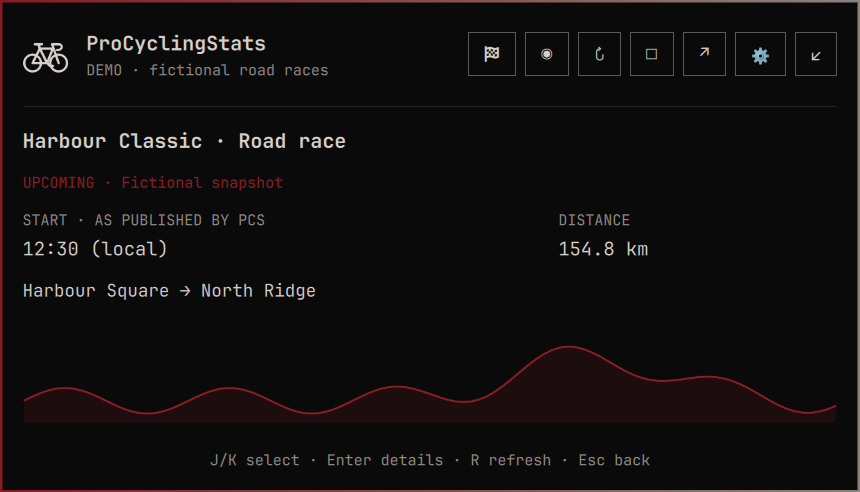
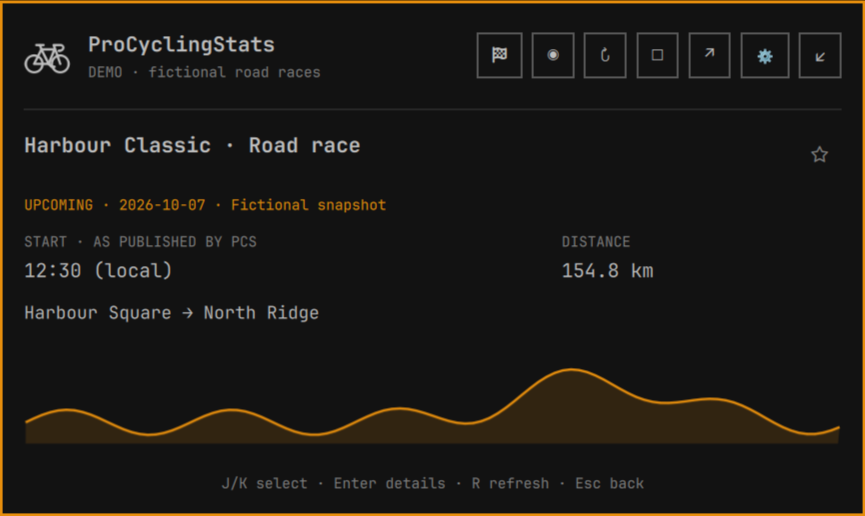
docs: refresh README and showcase the current race dashboard

diff --git a/README.md b/README.md
@@ -1,66 +1,79 @@
 # ProCyclingStats for Omarchy
 
-A compact road-cycling dashboard for the Omarchy Quattro bar. Follow the race
-situation, time gaps and latest events without keeping a browser window open.
+A road-cycling dashboard for the Omarchy Quattro bar. Follow live groups and
+splits, browse race profiles, move between stages, and catch up on results
+without spoiling the race you still want to watch.
 
 **Unofficial integration.** Not affiliated with or endorsed by ProCyclingStats.
-Race coverage depends on the public data PCS makes available.
+Coverage depends on the public data PCS makes available. No account or API key
+is required.
 
-![Live race overview with fictional demo data](preview.png)
+![Live race overview with a pinned race, gap trends, latest events and course profile](preview.png)
+
+*↑ gaining on the front · ↓ losing time. Hover a group to see the change in seconds.*
 
 ## Features
 
-- **Pinned races:** star an edition to keep it first within your current list and
-  filters. Pins include every stage and survive shell restarts and reboots.
-- **Stage navigation:** previous/next arrows beside the race title follow PCS's
-  published stages, opening results, live coverage or the upcoming preview.
-- **Gap trends:** ↑ means gaining on the front; ↓ means losing time since the
-  previous fresh snapshot. No arrow is shown for unchanged, uncertain, stale or
-  incomparable groups, including a changed front group. Hover a group for the
-  change in seconds.
-
-- **Pop-out window:** detach into a regular tiled window and dock back without
-  losing your current view; polling and notifications stay shared.
-- **Yesterday, today and tomorrow:** results, current races and upcoming stages.
-- **Profiles and distance:** published elevation thumbnails and kilometres for
-  past, current and upcoming races; larger profiles in the details view. Profiles
-  and distances survive shell restarts in a seven-day disk cache.
-- **Race calendar:** browse recent results and upcoming races beyond adjacent days.
-  Choose the default list size in Settings (25 races; adjustable from 10 to 100).
-- **One race overview:** distance remaining, race time, average speed, groups and
-  rider splits, latest events, course profile and the next published climb or sprint.
-- **Finished races:** course profile, distance, winner’s time and average speed,
-  alongside final results and the selected stage’s GC with time gaps.
-- **Race events:** attacks, sprints, dropped riders, abandonments and finish updates.
-- **Your races:** 13 independent category checkboxes and a minimum race level.
-  Choose ProSeries+ to hide Class 1 and Class 2 races. All categories and levels
-  are included by default.
-- **Optional notifications:** new events from followed races, with automatic expiry.
-- **Honest connection status:** visible warnings, last-success timestamps and
-  backoff when updates fail or PCS rejects access.
+- **Live race situation:** groups and rider splits, distance remaining, race
+  time, average speed, recent events and the next published climb or sprint.
+  Gap trends compare fresh snapshots of matching groups against the same front.
+- **Persistent pins:** star a race to sort it first within your current list and
+  filters. Pins cover the whole edition, including its stages, and survive reboots.
+- **Stage navigation:** previous/next arrows beside the title open published
+  stages as results, live coverage or an upcoming preview. Your active tab stays selected.
+- **Race calendar:** yesterday, today and tomorrow, plus Recent and Upcoming
+  lists beyond adjacent days. Set the list size from 10 to 100 races in Settings.
+- **Profiles and results:** course outlines and distance for past, current and
+  future races; finished-race results, stage GC, winner time and average speed.
+  Profiles and distance are cached on disk for seven days.
+- **Spoiler protection:** finished results and events stay concealed until you
+  use the eye button. Profiles, distances and empty-state messages stay readable.
+  Turn protection off entirely in Settings if preferred.
+- **Your coverage:** filter by 13 race categories and minimum race level; choose
+  refresh intervals and optional race-event notifications with automatic expiry.
+- **Tiled pop-out:** detach into a regular desktop window and dock back without
+  losing the current view. Polling and notifications remain shared.
+- **Visible connection status:** failed or rejected updates show a warning and
+  last-success information while keeping the previous snapshot available.
 
 The bike icon sits in the center of the bar by default. Colors and typography
-follow your Omarchy theme. Rider and team information appears only in race context.
+follow your Omarchy theme. Rider information appears in race context.
 
 ## Screenshots
 
-All screenshots show the actual plugin using committed fictional fixtures.
+Native captures from **v0.12.0**, using fictional races and riders. Click an image
+to see it at full size.
 
-| Races | Categories and level |
+| Race list with a pinned edition | Recent races with course profiles |
 | --- | --- |
-| ![Date navigation and race list](screenshots/compact.png) | ![Race filters in Settings](screenshots/settings.png) |
+| [![Pinned race first in the compact race list](screenshots/compact.png)](screenshots/compact.png) | [![Recent race calendar with profiles and distance](screenshots/calendar.png)](screenshots/calendar.png) |
 
-| Finished-stage GC | Tomorrow’s preview |
+| Stage navigation with results concealed | GC after revealing the results |
 | --- | --- |
-| ![General classification](screenshots/gc.png) | ![Upcoming race information](screenshots/tomorrow-preview.png) |
+| [![Previous and next stage arrows, pinned edition and closed eye](screenshots/stage-navigation.png)](screenshots/stage-navigation.png) | [![Revealed stage GC, winner metrics and profile](screenshots/gc.png)](screenshots/gc.png) |
 
-[Gap trends](screenshots/gap-trends.png) · [Stage navigation and pins](screenshots/stage-navigation.png) · [Spoiler protection](screenshots/spoiler-protection.png) · [Spoiler settings](screenshots/spoiler-settings.png) · [Race calendar](screenshots/calendar.png) · [Full course profile](screenshots/finished-profile.png) · [Detached window](screenshots/window.png) · [Race events](screenshots/events.png) · [Refresh and notifications](screenshots/refresh-settings.png)
-· [Connection warning](screenshots/warning.png) · [Tomorrow’s list](screenshots/tomorrow-list.png)
+<details>
+<summary>Upcoming preview, race events and filters</summary>
+
+**Upcoming course**
+
+![Upcoming race preview with distance and course profile](screenshots/tomorrow-preview.png)
+
+**Race events**
+
+![Race events with distance markers](screenshots/events.png)
+
+**Category and level filters**
+
+![Settings with category checkboxes and minimum race level](screenshots/settings.png)
+
+</details>
 
 ## Requirements
 
-- **Omarchy 4 Quattro.** Tested locally with Omarchy **4.0.4-1** and Qt **6.11.2**,
-  on one Wayland laptop display. Other versions and multiple monitors are unverified.
+- **Omarchy 4 Quattro.** Locally tested with Omarchy **4.0.4-1** and Qt
+  **6.11.2** under Wayland. Native captures also run in a multi-display session;
+  compatibility with other versions and display arrangements is not exhaustive.
 - **Python 3**, standard library only, available as `/usr/bin/python3`.
 - **xdg-utils** for `/usr/bin/xdg-open`, used only when opening PCS in your browser.
 - Network access to `https://www.procyclingstats.com`.
@@ -107,12 +120,13 @@ There are no stored credentials or background services outside the shell.
 ## Use
 
 **Spoiler protection is on by default.** Finished races hide standings, winner
-metrics and race events behind a blurred placeholder. Use the **eye button** (or **S**) to reveal or hide the current race. The
-closed/slashed eye means hidden; the open eye means visible.
+metrics and race events behind a blurred placeholder. Use the **eye button**
+(or **S**) to reveal or hide the current race. The slashed eye means hidden;
+the open eye means visible.
 Switching races or closing the dashboard hides results again. Profiles and
 distances stay visible. Empty tables, unavailable-event messages and missing
-metrics remain readable; only populated results and events are concealed. Finished-race event notifications are suppressed while
-protection is on. Disable **Spoiler protection** in Settings to show all results
+metrics remain readable; only populated results and events are concealed.
+Finished-race event notifications are suppressed while protection is on. Disable **Spoiler protection** in Settings to show all results
 normally and remove the reveal button. Opening PCS leaves the dashboard; the
 external website can show results.
 
@@ -135,6 +149,7 @@ needed. The header’s flag always returns to the race list; Live returns to tod
 | `J` / `K` or `↓` / `↑` | Select a race or setting |
 | Enter / click a race | Open its details |
 | `T` in race details | Overview / race events |
+| Eye / `S` in finished-race details | Reveal / hide results and events |
 | Header ↗ / `O` | Open the selected view on PCS |
 | Window icon / `P` | Pop out to a desktop window / dock back to the bar |
 | Gear / comma | Settings |
@@ -146,8 +161,8 @@ needed. The header’s flag always returns to the race list; Live returns to tod
 | Esc | Back, then close |
 
 The calendar applies your category and level filters before limiting the list.
-Click a race for results/GC or its upcoming preview. Change the default count in Settings. “Show more” expands this visit without
-changing your saved default. Multi-day races appear once,
+Click a race for results/GC or its upcoming preview. Change the default count in
+Settings. “Show more” expands this visit without changing your saved default. Multi-day races appear once,
 using their nearest listed date and the race/stage link PCS publishes.
 
 The pop-out is a normal Hyprland window: tile, move or resize it with your usual
@@ -169,10 +184,10 @@ See [filters, refresh intervals and notifications](docs/settings.md).
 ## Data limitations
 
 PCS coverage varies by race. Missing metrics show an em dash; unavailable riders,
-GC, events or profiles are labelled explicitly. Published PNG/JPEG profiles use the same inline graph when their outline can
-be traced reliably, with the original image as a fallback; unsupported formats or
-missing coverage still require opening PCS. Start-time text is shown as published, including its timezone; ETA
-means expected finish. Race position is never extrapolated. Finished-race time
+GC, events or profiles are labelled explicitly. Published PNG/JPEG profiles use
+the same inline graph when their outline can be traced reliably, with the original image as a fallback; unsupported formats or
+missing coverage still require opening PCS. Start-time text is shown as published,
+including its timezone; ETA means expected finish. Race position is never extrapolated. Finished-race time
 is the published winner’s time for that race or stage, not accumulated GC time
 or the live clock. Average speed is the published winner’s average.
 

diff --git a/docs/development.md b/docs/development.md
@@ -39,11 +39,12 @@ so update it before capturing a changed UI:
 ```sh
 omarchy plugin update io.github.vip32.procyclingstats --yes
 omarchy restart shell
-./demo/run --output preview.png
+./demo/run --pin --output preview.png
 ./demo/run --window --verify-window --output screenshots/window.png
-./demo/run --compact --output screenshots/compact.png
+./demo/run --compact --race-index 1 --pin --output screenshots/compact.png
 ./demo/run --events --output screenshots/events.png
-./demo/run --race-index 2 --output screenshots/gc.png
+./demo/run --race-index 2 --pin --reveal --output screenshots/gc.png
+./demo/run --race-index 2 --pin --verify-following --output screenshots/stage-navigation.png
 ./demo/run --settings --output screenshots/settings.png
 ./demo/run --settings --settings-section refresh --output screenshots/refresh-settings.png
 ./demo/run --warning blocked --output screenshots/warning.png
@@ -52,8 +53,8 @@ omarchy restart shell
 ```
 
 Capture dependencies: an unlocked Omarchy session, Git, `omarchy-shell`, `hyprctl`
-and `grim`. The harness currently supports one unrotated monitor. Use it while
-not interacting with the panel. It switches briefly to an unused empty workspace.
+and `grim`. Focus the unrotated monitor containing the plugin before capturing; other
+connected displays can remain enabled. Use it while not interacting with the panel. It switches briefly to an unused empty workspace.
 
 The committed fixture is visibly labelled DEMO. While active, the plugin uses
 read-only default settings, stops live polling and suppresses event notifications.
